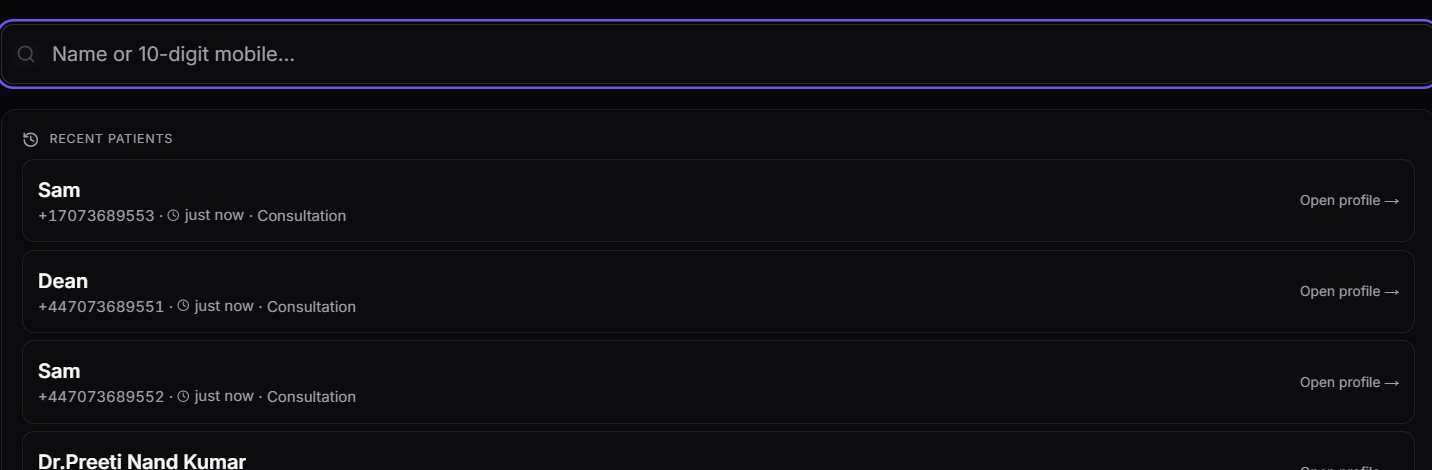
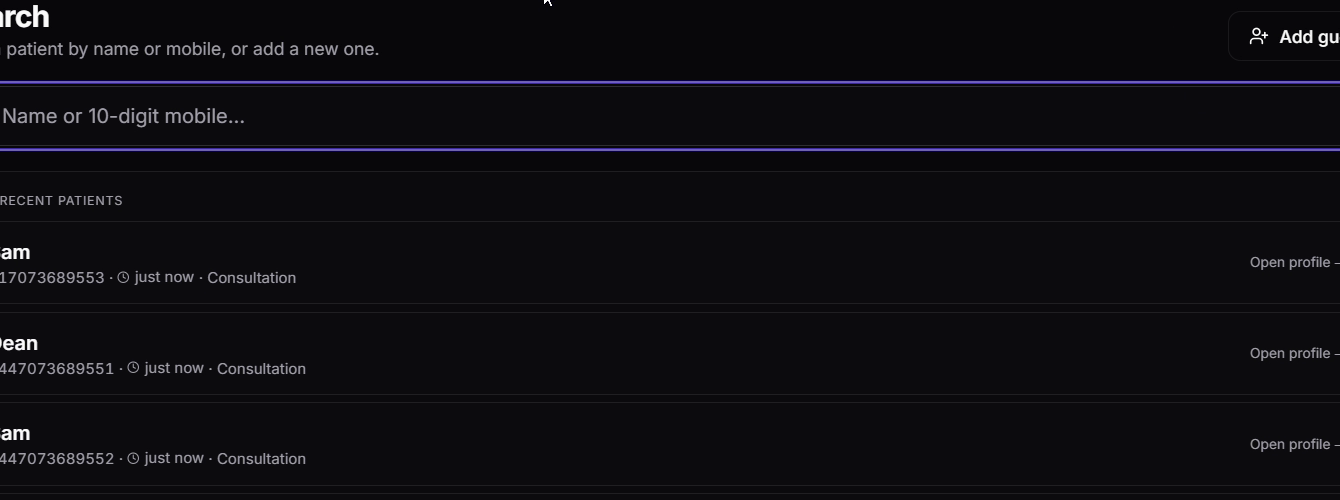
Baari: cohesive image system + close async, multi-user and access gaps; a11y fixes
Images — the set read "here and there" because the shots had ratios from
0.56 to 4.06 and some included the app nav (showing "Pratiksha") while
others didn't, so adjacent frames showed different business names at
different heights. Re-cut on one system:
- Every full-width decision shot is now 1340x500 (one ratio), cropped
  below the nav bar so no business name appears in any of them.
- The one-tap decision swapped its wide rows strip for the in-consult
  card (600x600), which shows the live timer and single Mark done — the
  gesture the decision is actually about.

Closed three of the six portfolio gaps, all from Nandini's own raw report,
nothing invented:
- Multi-user: stated the explicit priority (receptionist first, owner
  second, customer third) and why it is not the money order — the owner
  buys, the receptionist decides whether it survives.
- Async comms: the practice behind "the spec is the design" — numbered
  A1-A11 specs with acceptance criteria, P0-P3 trust-based triage, cuts
  recorded with reasoning, root-cause diagnoses, versioned handoff docs.
- Access: an honest inclusive-design section (bilingual EN/Hindi with
  Devanagari, low-end Android, offline as P0, identity for shared and
  recycled numbers), explicitly NOT claiming a formal WCAG pass.

Accessibility audit of the portfolio site itself, two real fixes:
- /portfolio had no h1 (WCAG 2.4.6 / 1.3.1) — its main statement was a
  <p>. Promoted to h1, no visual change.
[…]

diff --git a/app/work/baari/page.jsx b/app/work/baari/page.jsx
@@ -262,6 +262,22 @@ export default function BaariPage() {
           <div className="mt-8">
             <ThreeRolesDiagram />
           </div>
+          <Prose>
+            Three roles meant three sets of needs competing for the same product, so
+            I made the priority explicit and held every decision to it:
+            <strong className="text-silver font-medium"> receptionist first, owner second, customer third.</strong>
+          </Prose>
+          <Prose>
+            That order is deliberately not the money order. The owner is the one who
+            signs up and pays, so most software in this market is built for them. But
+            the receptionist is the person the whole day actually runs through — she is
+            absorbing the walk-ins, the phone calls and the “how long will it take?”
+            while the owner is with a customer. If the product makes her slower, the
+            paper register comes back and nothing else matters.
+          </Prose>
+          <PullQuote>
+            The owner buys it. The receptionist decides whether it survives.
+          </PullQuote>
         </Section>
 
         {/* 4. Key design decisions — real product shots */}
@@ -285,7 +301,7 @@ export default function BaariPage() {
                 <BrowserShot
                   src="/assets/baari/demo-queue-full.png"
                   alt="The queue board — waiting list on the left with tokens, reasons and late flags, the patient in consult on the right with a live timer"
-                  aspect="1340/610"
+                  aspect="1340/500"
                 />
               }
             />
@@ -318,11 +334,11 @@ export default function BaariPage() {
               why="The paper register survived because it was fast. Baari had to be faster, and turn the same gesture into data the notebook never gave back."
               imgSide="left"
               media={
-                <div className="mx-auto w-full max-w-[440px]">
+                <div className="mx-auto w-full max-w-[380px]">
                   <BrowserShot
-                    src="/assets/baari/demo-queue-rows.png"
-                    alt="Queue rows — a patient automatically flagged LATE eight minutes past their slot, and returning customers carrying a visit count"
-                    aspect="712/330"
+                    src="/assets/baari/demo-inconsult.png"
+                    alt="The in-consult card — token, patient, a live timer reading 2 minutes in, and a single Mark done button"
+                    aspect="600/600"
                   />
                 </div>
               }
@@ -339,7 +355,7 @@ export default function BaariPage() {
                 <BrowserShot
                   src="/assets/baari/live-search.png"
                   alt="Search — find a patient by name or 10-digit mobile, with a list of recent patients below"
-                  aspect="1432/470"
+                  aspect="1340/500"
                 />
               }
             />
@@ -355,7 +371,7 @@ export default function BaariPage() {
                 <BrowserShot
                   src="/assets/baari/demo-signal-reports.png"
                   alt="Signal reports — silent churn listing lapsed regulars, category revenue split across consultation, pharmacy and procedure, and a cohort retention matrix"
-                  aspect="1340/330"
+                  aspect="1340/500"
                 />
               }
             />
@@ -371,7 +387,7 @@ export default function BaariPage() {
                 <BrowserShot
                   src="/assets/baari/demo-signal-stats.png"
                   alt="Signal overview — total bookings, completed, no-show rate, cancellations, average wait and session, with revenue coverage and bookings split by app, front desk and walk-in"
-                  aspect="1340/420"
+                  aspect="1340/500"
                 />
               }
             />
@@ -387,7 +403,7 @@ export default function BaariPage() {
                 <BrowserShot
                   src="/assets/baari/live-empty-states.png"
                   alt="Three report cards with instructional empty states for silent churn, category revenue and cohort retention"
-                  aspect="1432/530"
+                  aspect="1340/500"
                 />
               }
             />
@@ -481,6 +497,27 @@ export default function BaariPage() {
           </ScrollReveal>
         </section>
 
+        {/* 4c. Access — designing for the actual context of use */}
+        <Section title="Access, for an Indian front desk rather than a Western one" tone="sunken">
+          <Prose>
+            Most software in this market is English-first, always-online and assumes one
+            phone belongs to one person. None of that is true at the desks Baari is for,
+            so the constraints below were treated as requirements, not edge cases.
+          </Prose>
+          <SubList items={[
+            'Bilingual English and Hindi throughout, with Devanagari names rendered properly rather than transliterated into something the customer does not recognise as their own.',
+            'Built for the low-end Android devices these desks actually run, not the flagship the design was drawn on.',
+            'Offline and patchy-connection states specified as P0, because clinic wifi drops and power cuts are normal — a queue that lies when the connection goes is worse than no queue.',
+            'Identity handled for shared family phones, dual SIMs and recycled numbers, so a naive match can never hand one person another person’s visit history.',
+            'Business-type-aware vocabulary — “in chair”, “in consult”, “in session” — so nobody has to translate software language into their own.',
+          ]} />
+          <Prose>
+            I have not run a formal WCAG audit on this product yet, and I am not going to
+            claim one. What is here is the access work the context demanded: language,
+            devices, connectivity and identity.
+          </Prose>
+        </Section>
+
         {/* 5. How two people shipped it */}
         <Section title="Two people, spec-driven, shipped in months">
           <Prose>
@@ -489,6 +526,19 @@ export default function BaariPage() {
           <PullQuote>
             The spec is the design. My highest-leverage artifact was the written specification, not the mockup.
           </PullQuote>
+          <p className="text-silver font-medium mt-6">What that looked like in practice</p>
+          <SubList items={[
+            'Screens written as numbered specs — A1 through A11 — each carrying exact layout order, the verbatim UI copy, the state gates and the acceptance criteria that decided when it was done.',
+            'Findings triaged P0 to P3 against one written question: can this make a booking wrong, lost, or dishonest? That rule, not my taste, set the order of work.',
+            'Every cut recorded with its reasoning, so scope stayed decided instead of being relitigated later.',
+            'Diagnoses written to root cause, not symptom: four separate bug reports about wrong times turned out to be one timezone conversion, and collapsed into a single fix.',
+            'Decisions captured in versioned handoff documents, so anyone picking the work up — including me, months later — starts with the full context rather than an inbox.',
+          ]} />
+          <Prose>
+            None of this was documentation written after the fact. It was how the
+            product got specified in the first place, which is the only reason two
+            people could hold two codebases in one shared vocabulary.
+          </Prose>
         </Section>
 
         {/* 6. Rigour — the audits */}

diff --git a/app/portfolio/page.jsx b/app/portfolio/page.jsx
@@ -27,12 +27,12 @@ export default function PortfolioPage() {
               Selected case studies
             </span>
           </div>
-          <p
+          <h1
             className="font-heading tracking-tightest text-silver max-w-3xl"
             style={{ fontSize: 'clamp(28px, 4vw, 48px)', lineHeight: 1.1 }}
           >
             Four products shipped to real users. Built from problem to production.
-          </p>
+          </h1>
         </BlurReveal>
 
         <div className="mt-14 md:mt-20 grid grid-cols-1 gap-5">

diff --git a/components/CaseStudyShell.jsx b/components/CaseStudyShell.jsx
@@ -113,7 +113,7 @@ export default function CaseStudyShell({ slug, index, title, oneLiner, meta = []
                   </div>
                   <div className="flex items-baseline gap-4">
                     <span
-                      className="text-[11px] tracking-[0.24em] uppercase"
+                      className="text-xl font-bold tracking-tight tabular-nums"
                       style={{ color: next.accent }}
                     >
                       {next.index}
